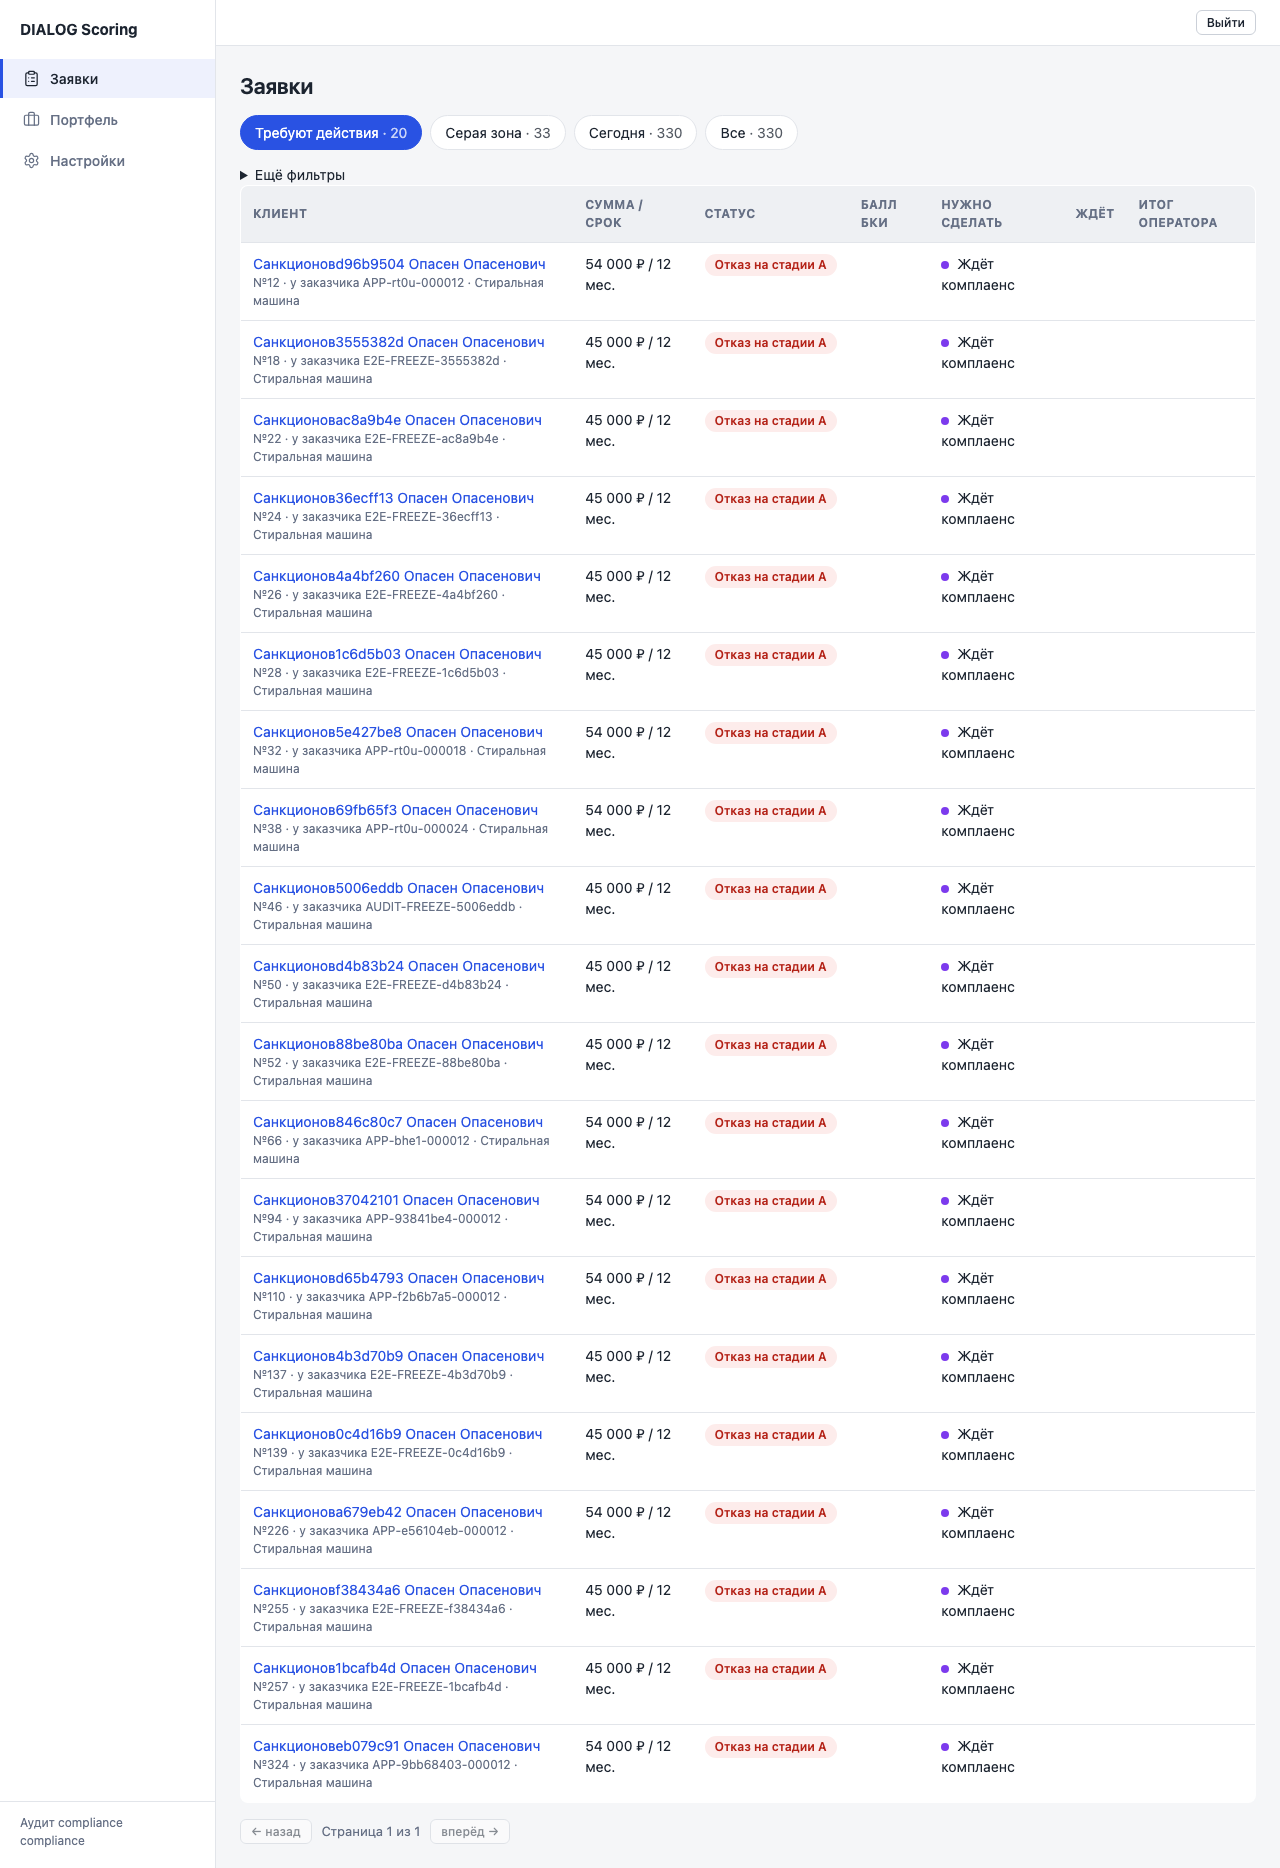
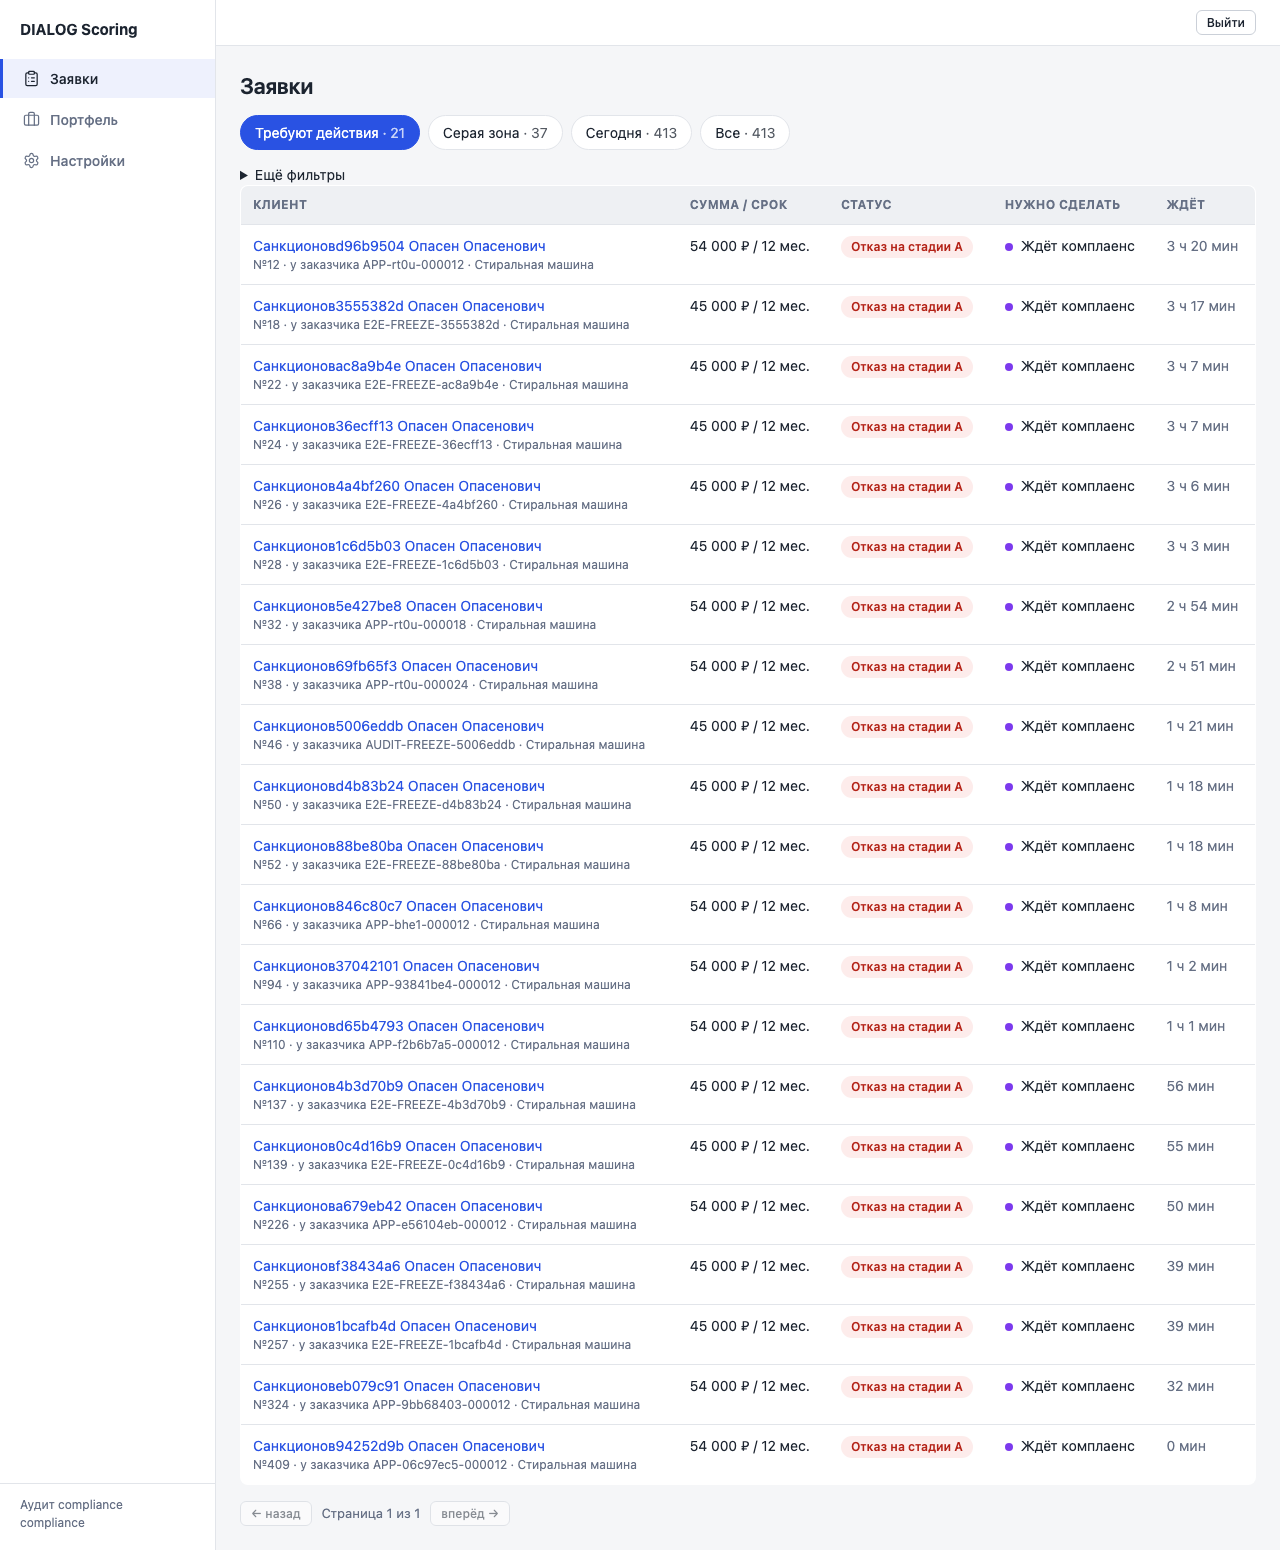
T17 часть 4: фиксы списка (скорость очереди, «Ждёт», колонки по роли)
- Очередь «Требуют действия» сортируется и пагинируется в SQL. Раньше
  каждая заявка очереди проходила через _to_item (8–9 запросов), для
  оператора на ~260 заявках ответ занимал 1.35 с; теперь ~0.2 с.
- Итог оператора в SQL и в элементе списка считается по последнему итогу
  (одна и та же семантика «оператор изменил статус»).
- «Ждёт» показывается у каждой заявки очереди роли: раньше статус
  «отказ» прятал время у заморозок комплаенса.
- У комплаенса скрыты колонки «Балл БКИ» и «Итог оператора» (всегда пусты).
- e2e: оператор добавлен в сид; тесты, что список грузится у оператора и
  что у комплаенса «Ждёт» заполнен, а скрытые колонки отсутствуют.

diff --git a/frontend/src/pages/ApplicationsList.tsx b/frontend/src/pages/ApplicationsList.tsx
@@ -22,8 +22,11 @@ const VIEW_LABELS: Record<View, string> = {
 
 const QUEUE_ROLES = ["operator", "compliance", "risk_manager"];
 
-// Статусы, при которых заявка закрыта — «Ждёт» для них не показываем.
-const TERMINAL_STATUSES = new Set(["approved", "rejected_a", "rejected_b", "contracted", "expired"]);
+// Колонки, которые у роли всегда пусты, не показываем: у комплаенса очередь —
+// заморозки по перечню, без балла БКИ и без итога оператора.
+const HIDDEN_COLUMNS_BY_ROLE: Record<string, Set<string>> = {
+  compliance: new Set(["score", "override"]),
+};
 
 // Тон пилюли статуса: одобрено — зелёный, отказ — красный, серая зона — янтарный,
 // всё «в процессе» — нейтральный серо-синий. Цвета — токены в index.css.
@@ -96,6 +99,16 @@ export function ApplicationsListPage() {
   }
 
   const counts = countsQuery.data;
+  const hidden = HIDDEN_COLUMNS_BY_ROLE[employee?.role ?? ""] ?? new Set<string>();
+  const columns = [
+    { key: "client", title: "Клиент" },
+    { key: "amount", title: "Сумма / срок" },
+    { key: "status", title: "Статус" },
+    { key: "score", title: "Балл БКИ" },
+    { key: "action", title: "Нужно сделать" },
+    { key: "waiting", title: "Ждёт" },
+    { key: "override", title: "Итог оператора" },
+  ].filter((column) => !hidden.has(column.key));
   const views = (Object.keys(VIEW_LABELS) as View[]).filter((key) => key !== "action" || counts?.action != null);
 
   return (
@@ -167,13 +180,9 @@ export function ApplicationsListPage() {
         <table className="table">
           <thead>
             <tr>
-              <th>Клиент</th>
-              <th>Сумма / срок</th>
-              <th>Статус</th>
-              <th>Балл БКИ</th>
-              <th>Нужно сделать</th>
-              <th>Ждёт</th>
-              <th>Итог оператора</th>
+              {columns.map((column) => (
+                <th key={column.key}>{column.title}</th>
+              ))}
             </tr>
           </thead>
           <tbody>
@@ -193,7 +202,9 @@ export function ApplicationsListPage() {
                     {applicationStatusLabel(item.status)}
                   </span>
                 </td>
-                <td className="num">{item.score != null ? Math.round(Number(item.score)) : ""}</td>
+                {!hidden.has("score") && (
+                  <td className="num">{item.score != null ? Math.round(Number(item.score)) : ""}</td>
+                )}
                 <td>
                   {item.action_text && (
                     <>
@@ -203,17 +214,18 @@ export function ApplicationsListPage() {
                   )}
                 </td>
                 <td className="muted num">
-                  {item.waiting_since && !TERMINAL_STATUSES.has(item.status)
-                    ? formatElapsed(item.waiting_since)
-                    : ""}
+                  {/* «Ждёт» — только у заявок очереди роли: момент встал в очередь. */}
+                  {item.action_text && item.waiting_since ? formatElapsed(item.waiting_since) : ""}
                 </td>
-                <td>
-                  {item.has_override && item.override_matches_system === false ? (
-                    <span title="Итог оператора не совпадает с последним решением системы">
-                      Оператор изменил статус
-                    </span>
-                  ) : null}
-                </td>
+                {!hidden.has("override") && (
+                  <td>
+                    {item.has_override && item.override_matches_system === false ? (
+                      <span title="Итог оператора не совпадает с последним решением системы">
+                        Оператор изменил статус
+                      </span>
+                    ) : null}
+                  </td>
+                )}
               </tr>
             ))}
           </tbody>

diff --git a/frontend/e2e/applications-list-roles.spec.ts b/frontend/e2e/applications-list-roles.spec.ts
@@ -1,0 +1,34 @@
+// T17, часть 4 (баги после скриншотов): у каждой роли список реально грузится
+// (таблица появляется, не «Загрузка…»), а колонки, которые роли всегда пусты,
+// не показываются. У комплаенса «Ждёт» — время с момента заморозки.
+import { test, expect } from "@playwright/test";
+import { loadSeed } from "./fixtures";
+import { login } from "./login";
+
+test("оператор: очередь «Требуют действия» грузится и показывает таблицу", async ({ page }) => {
+  const seed = loadSeed();
+  await login(page, seed.operator.email, seed.operator.password);
+  await page.goto("/applications");
+
+  await expect(page.getByRole("button", { name: /Требуют действия · \d+/ })).toHaveAttribute("aria-pressed", "true");
+  await expect(page.getByText("Загрузка…")).toHaveCount(0, { timeout: 10_000 });
+  await expect(page.getByRole("table")).toBeVisible({ timeout: 10_000 });
+  await expect(page.getByRole("columnheader", { name: "Нужно сделать" })).toBeVisible();
+});
+
+test("комплаенс: «Ждёт» показывает время с заморозки; «Балл БКИ» и «Итог оператора» скрыты", async ({ page }) => {
+  const seed = loadSeed();
+  await login(page, seed.compliance.email, seed.compliance.password);
+  await page.goto("/applications");
+
+  await expect(page.getByRole("table")).toBeVisible({ timeout: 10_000 });
+  await expect(page.getByRole("columnheader", { name: "Балл БКИ" })).toHaveCount(0);
+  await expect(page.getByRole("columnheader", { name: "Итог оператора" })).toHaveCount(0);
+
+  const waitIndex = await page.getByRole("columnheader").evaluateAll(
+    (headers) => headers.findIndex((th) => th.textContent?.trim() === "Ждёт"),
+  );
+  expect(waitIndex).toBeGreaterThanOrEqual(0);
+  const firstWait = page.locator("tbody tr").first().locator("td").nth(waitIndex);
+  await expect(firstWait).toHaveText(/\d+ (мин|ч|дн)/);
+});

diff --git a/frontend/e2e/fixtures.ts b/frontend/e2e/fixtures.ts
@@ -9,6 +9,7 @@ export interface Seed {
   viewer: { email: string; password: string };
   compliance: { email: string; password: string };
   admin: { email: string; password: string };
+  operator: { email: string; password: string };
   application: { id: string; external_id: string; number: number; last_name: string };
   frozen_match: { application_id: string; client_id: string; decision_id: string; external_id: string };
 }

diff --git a/backend/app/api/applications.py b/backend/app/api/applications.py
@@ -12,7 +12,7 @@ from uuid import UUID
 
 from fastapi import APIRouter, Depends, HTTPException, Query, Request, Response, status
 from pydantic import BaseModel, ValidationError
-from sqlalchemy import and_, exists, func, or_, select
+from sqlalchemy import and_, case, exists, func, or_, select
 from sqlalchemy.ext.asyncio import AsyncSession
 
 from app.config import get_settings
@@ -136,9 +136,9 @@ def _fssp_unchecked_gray_clause():
     )
 
 
-def _override_mismatch_clause():
-    """Оператор в системе заказчика изменил статус — итог не совпадает с
-    последним решением нашего сервиса («расхождение», см. discrepancies_only)."""
+def _latest_override_mismatch_clause():
+    """Последний итог оператора не совпадает с последним решением нашего
+    сервиса — «оператор изменил статус» (то же, что в _to_item: override_matches)."""
     latest_outcome = (
         select(Decision.outcome)
         .where(Decision.application_id == Application.id)
@@ -146,11 +146,36 @@ def _override_mismatch_clause():
         .limit(1)
         .scalar_subquery()
     )
+    latest_override = (
+        select(ManualOverride.id)
+        .where(ManualOverride.application_id == Application.id)
+        .order_by(ManualOverride.created_at.desc())
+        .limit(1)
+        .scalar_subquery()
+    )
     return exists(
         select(ManualOverride.id).where(
-            ManualOverride.application_id == Application.id,
+            ManualOverride.id == latest_override,
             ManualOverride.to_outcome != latest_outcome,
         )
+    )
+
+
+def _latest_override_at_expr():
+    """Момент последнего итога оператора, если он расходится с решением."""
+    latest_outcome = (
+        select(Decision.outcome)
+        .where(Decision.application_id == Application.id)
+        .order_by(Decision.created_at.desc())
+        .limit(1)
+        .scalar_subquery()
+    )
+    return (
+        select(ManualOverride.created_at)
+        .where(ManualOverride.application_id == Application.id, ManualOverride.to_outcome != latest_outcome)
+        .order_by(ManualOverride.created_at.desc())
+        .limit(1)
+        .scalar_subquery()
     )
 
 
@@ -169,8 +194,50 @@ def _queue_clause(role: str):
     if role == "compliance":
         return _freeze_pending_clause()
     if role == "risk_manager":
-        return or_(Application.status == "gray_zone", _override_mismatch_clause())
+        return or_(Application.status == "gray_zone", _latest_override_mismatch_clause())
     return None
+
+
+def _latest_decision_at_expr(stage: str):
+    return (
+        select(func.max(Decision.created_at))
+        .where(Decision.application_id == Application.id, Decision.stage == stage)
+        .scalar_subquery()
+    )
+
+
+def _queue_waiting_expr(role: str):
+    """SQL-выражение «ждёт с» для очереди роли — то же, что _queue_entry, но в
+    SQL: сортировка и страница делаются в базе, а не в Python по всем заявкам."""
+    status_since = (
+        select(func.max(StatusHistory.created_at))
+        .where(StatusHistory.application_id == Application.id, StatusHistory.to_status == Application.status)
+        .scalar_subquery()
+    )
+    fallback = Application.submitted_at
+    if role == "operator":
+        expr = case(
+            (Application.status.in_(("to_operator", "ocr_failed")), status_since),
+            else_=_latest_decision_at_expr("B"),
+        )
+    elif role == "compliance":
+        expr = (
+            select(func.max(Decision.created_at))
+            .where(
+                Decision.application_id == Application.id,
+                Decision.freeze.is_(True),
+                ~exists(select(FreezeLift.id).where(FreezeLift.decision_id == Decision.id)),
+            )
+            .scalar_subquery()
+        )
+    elif role == "risk_manager":
+        expr = case(
+            (Application.status == "gray_zone", _latest_decision_at_expr("B")),
+            else_=_latest_override_at_expr(),
+        )
+    else:
+        return fallback
+    return func.coalesce(expr, fallback)
 
 
 def _queue_entry(
@@ -368,20 +435,16 @@ async def list_applications(
         return item, override_matches
 
     if view == "action":
-        # Очередь роли: кто дольше всех ждёт — сверху (waiting_since по возрастанию).
-        # Сортировка и страница — в Python: момент ожидания в SQL не выражается.
-        candidates = (await session.execute(stmt)).scalars().all()
-        queued: list[ApplicationListItem] = []
-        for application in candidates:
-            item, override_matches = await _to_item(application)
-            if item.action_text is None:
-                continue
-            if discrepancies_only and override_matches is not False:
-                continue
-            queued.append(item)
-        queued.sort(key=lambda entry: entry.waiting_since)
-        total = len(queued)
-        items = queued[params.offset : params.offset + params.page_size]
+        # Очередь роли: дольше всех ждущие — сверху. Сортировка и страница в SQL
+        # (раньше — Python по всем заявкам очереди: ~1.3 с на 260 заявок).
+        total = (await session.execute(select(func.count()).select_from(stmt.subquery()))).scalar_one()
+        page_stmt = (
+            stmt.order_by(None).order_by(_queue_waiting_expr(employee.role).asc(), Application.id)
+            .offset(params.offset)
+            .limit(params.page_size)
+        )
+        applications = (await session.execute(page_stmt)).scalars().all()
+        items = [(await _to_item(application))[0] for application in applications]
     elif discrepancies_only:
         candidates = (await session.execute(stmt)).scalars().all()
         matched: list[ApplicationListItem] = []

diff --git a/frontend/e2e/seed.py b/frontend/e2e/seed.py
@@ -157,6 +157,7 @@ async def main() -> None:
             viewer = await _seed_employee(session, role="viewer")
             compliance = await _seed_employee(session, role="compliance")
             admin = await _seed_employee(session, role="admin")
+            operator = await _seed_employee(session, role="operator")
             application = await _seed_discrepancy_application(session)
             frozen_match = await _seed_frozen_sanctions_match(session)
             await session.commit()
@@ -165,7 +166,7 @@ async def main() -> None:
 
     print(json.dumps({
         "risk_manager": risk_manager, "viewer": viewer, "compliance": compliance, "admin": admin,
-        "application": application, "frozen_match": frozen_match,
+        "application": application, "frozen_match": frozen_match, "operator": operator,
     }))
 
 
